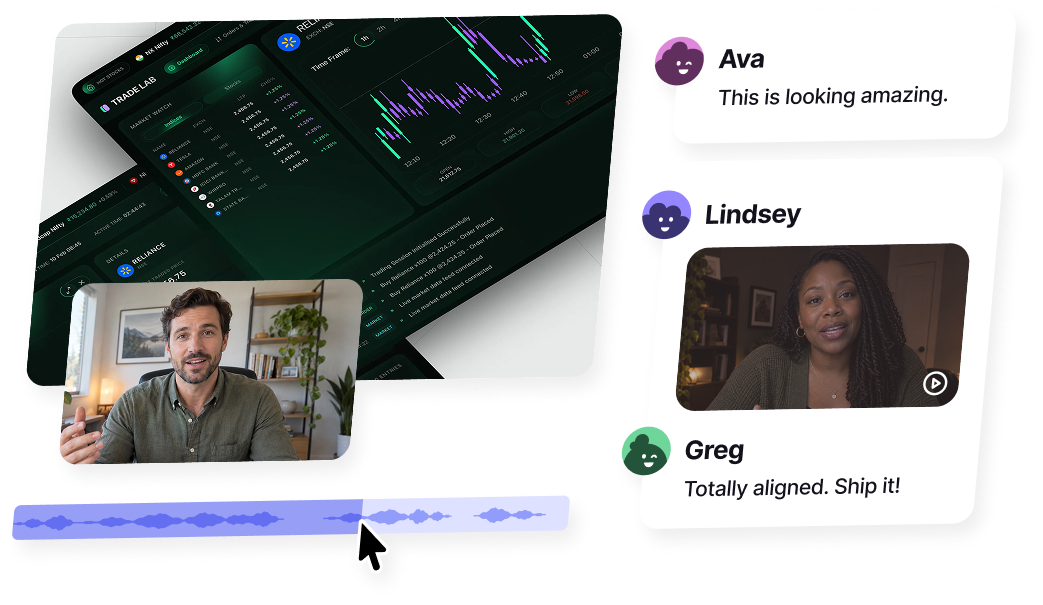
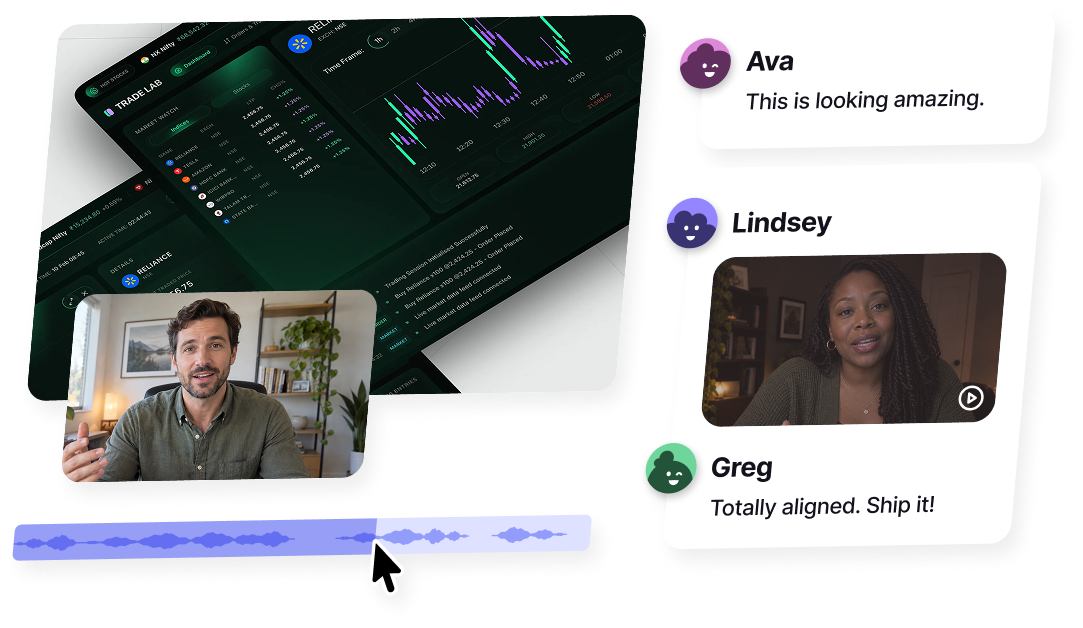
cc

diff --git a/_sass/views/_homepage.scss b/_sass/views/_homepage.scss
@@ -141,7 +141,7 @@
 }
 
 // Hover washes sample a light tint from each thumbnail's artwork.
-.bubbles-block   { --tile-background: #F8F9FA; --tile-hover-accent: #f3faff; }
+.bubbles-block   { --tile-background: #FAF9F8; --tile-hover-accent: #f3faff; }
 .mural-block     { --tile-hover-accent: #f1f8fe; }
 .olark-block     { --tile-hover-accent: #f2faef; }
 .freelance-block { --tile-hover-accent: #f1f7fc; }
